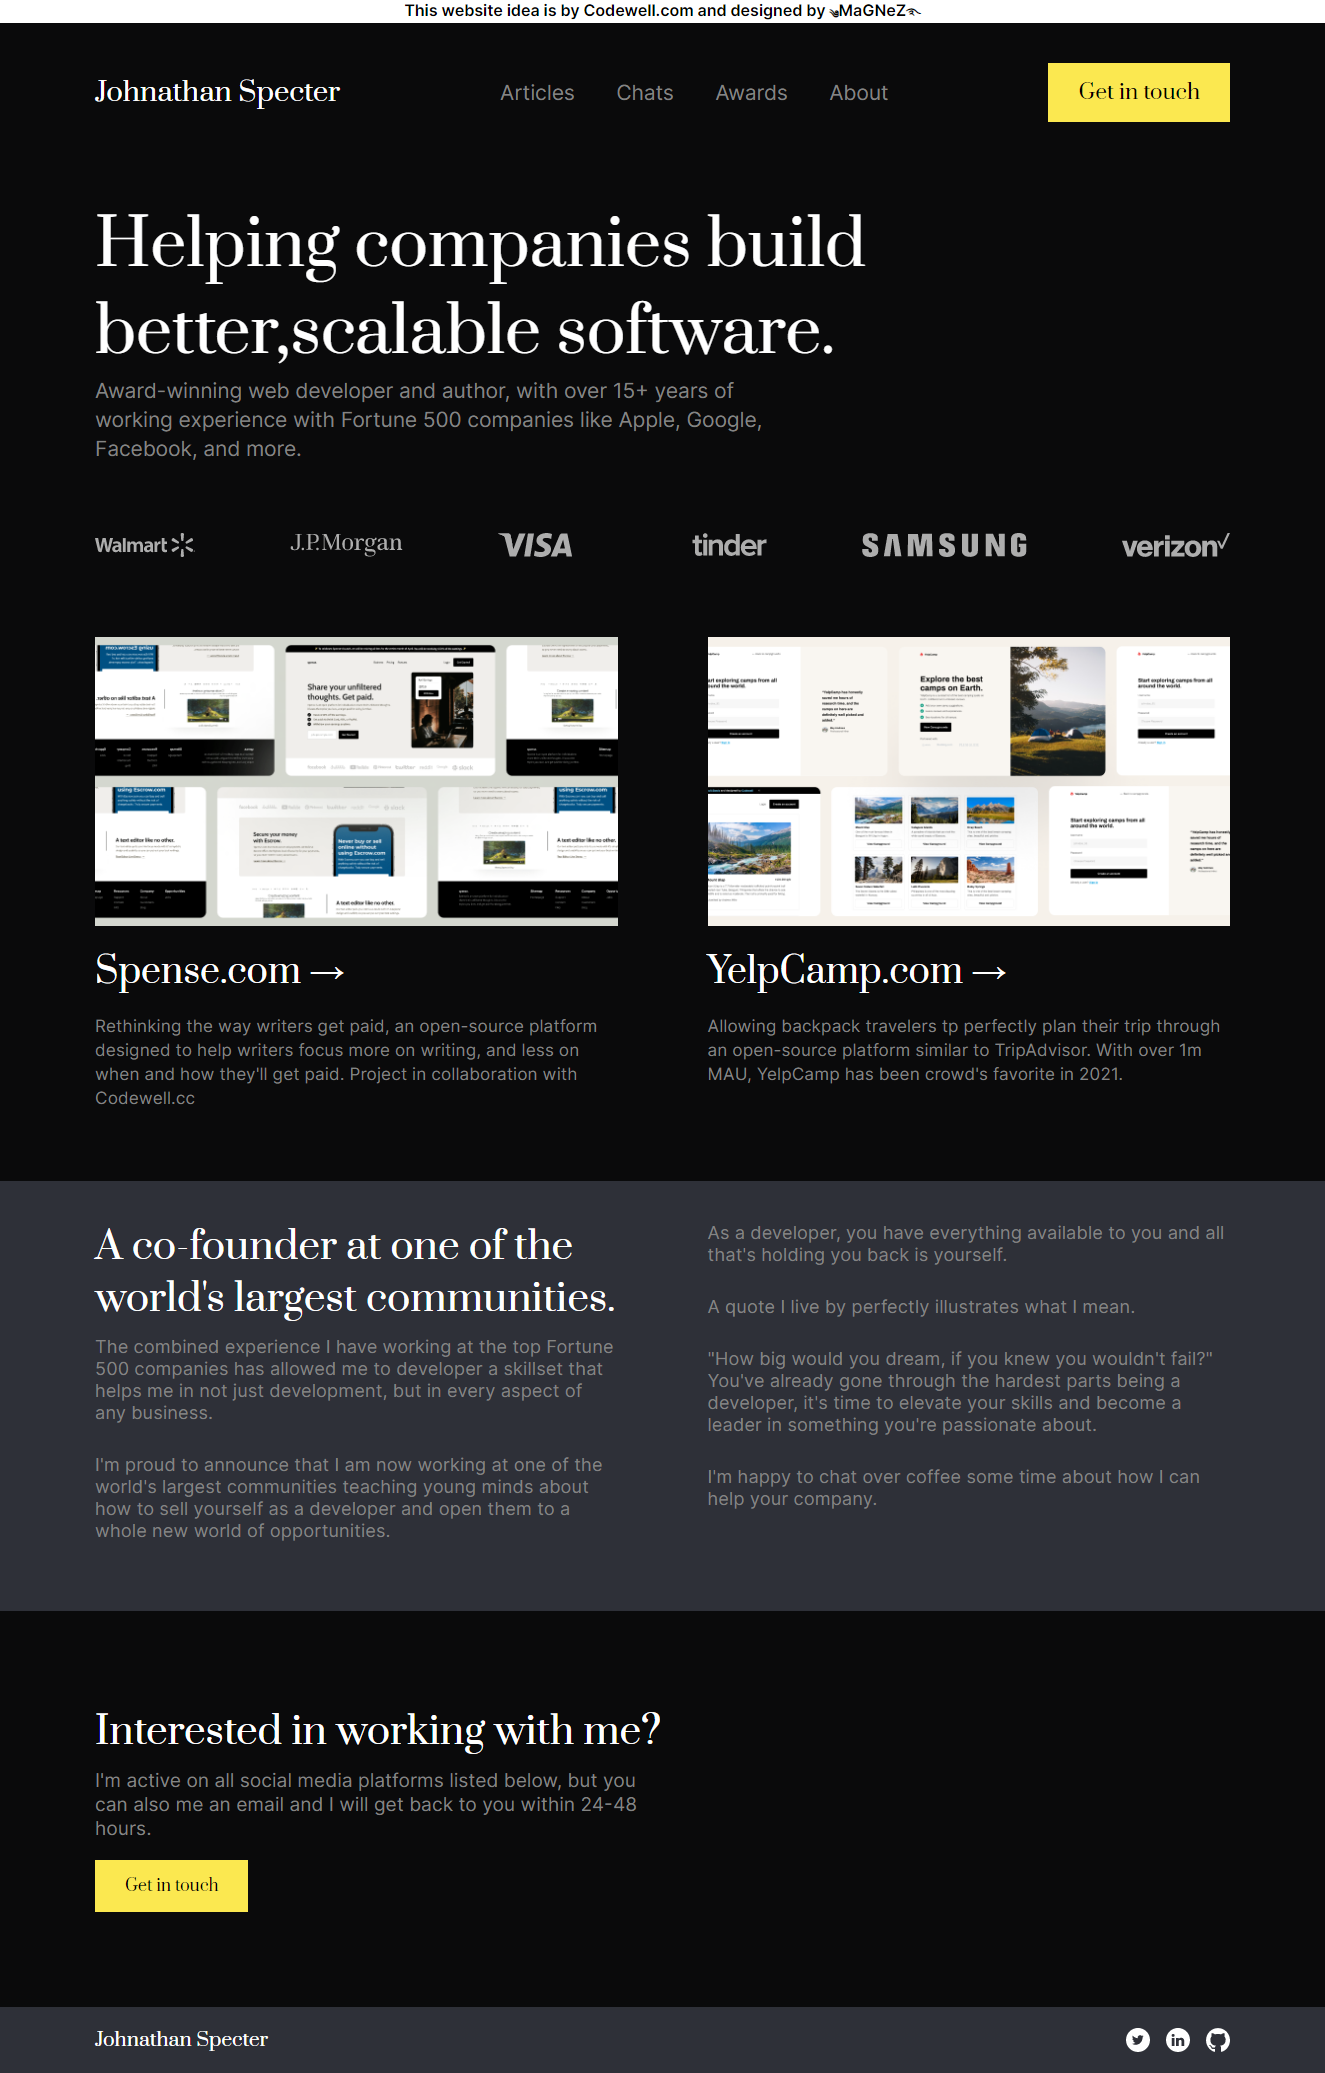
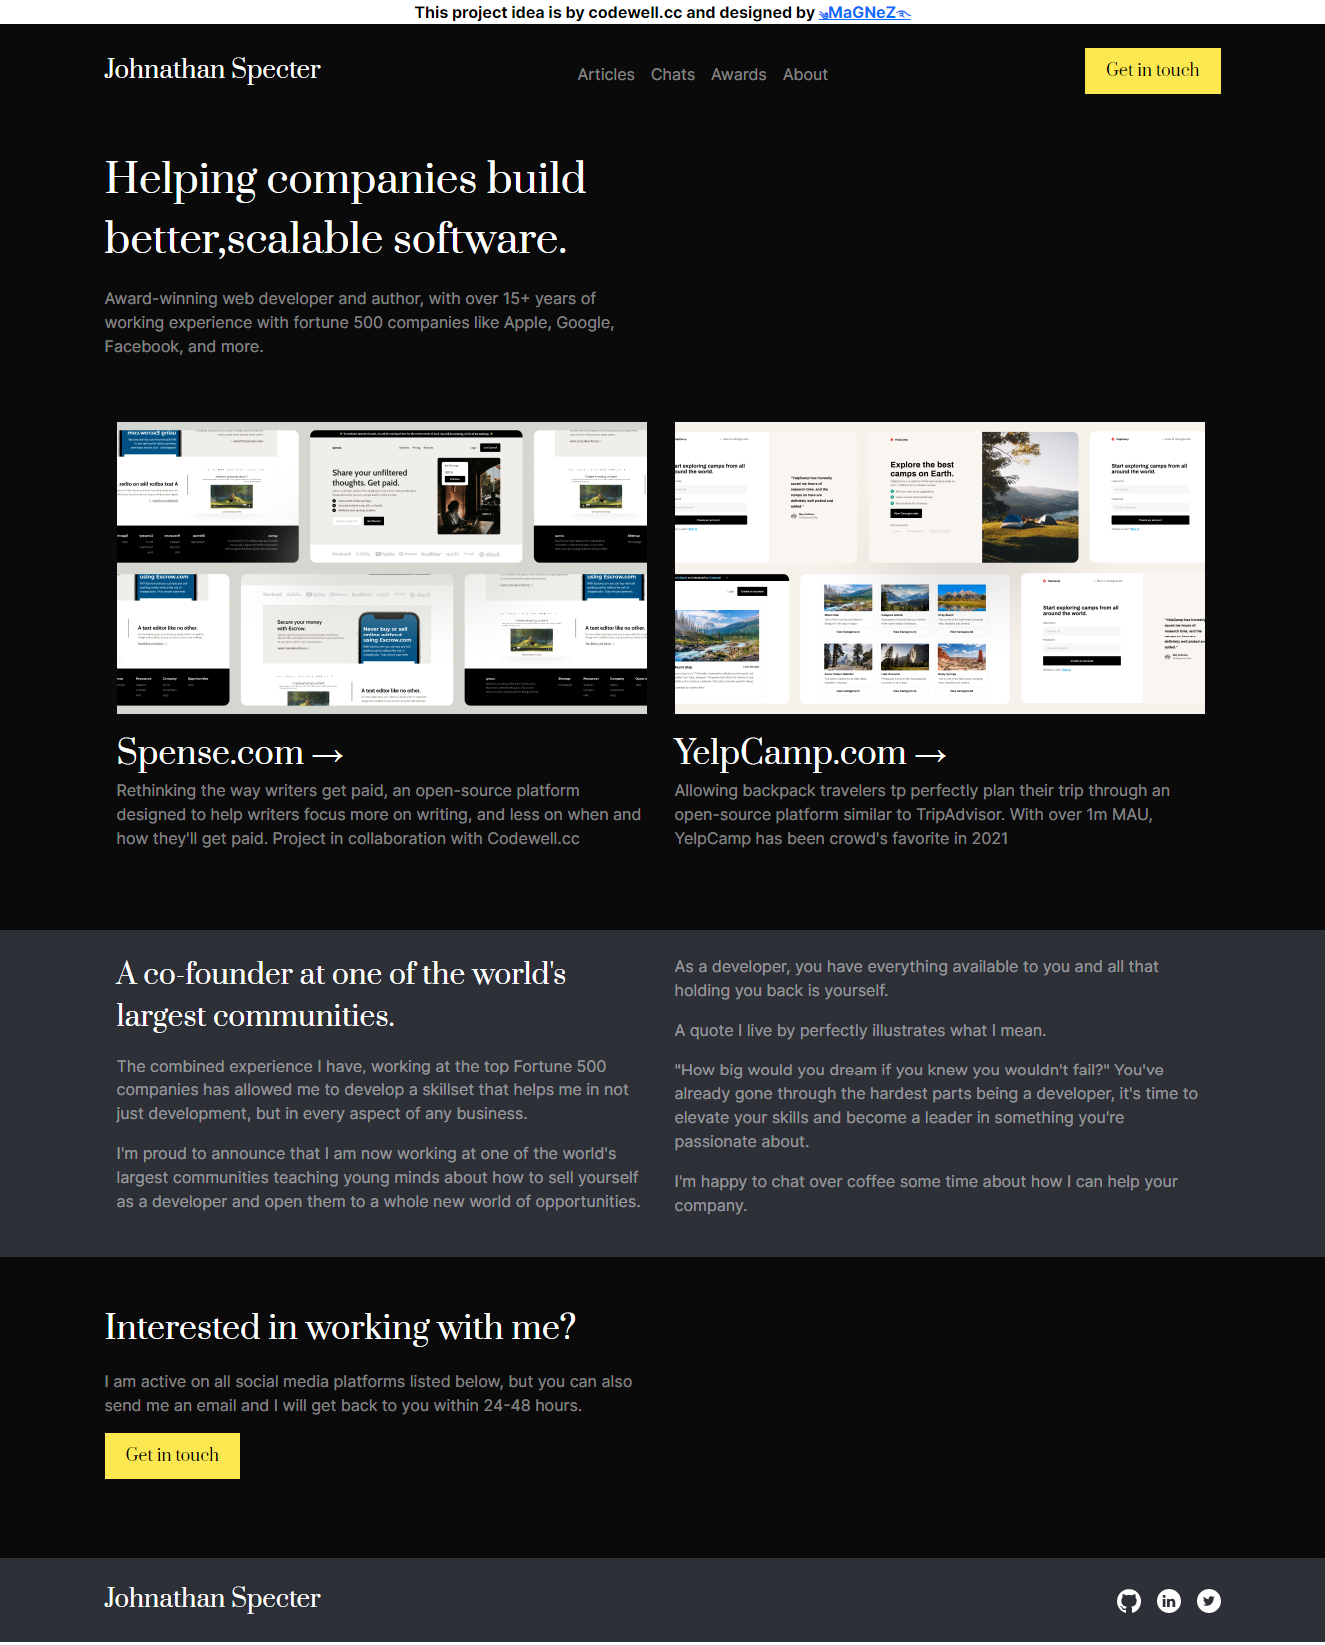
Finished project

Changed region(s): [[0.0, 0.248, 1.0, 1.0], [0.0619, 0.093, 0.6498, 0.217], [0.0, 0.0, 1.0, 0.062]]

diff --git a/index.html b/index.html
@@ -14,9 +14,134 @@
 </head>
 
 <body>
-    <header></header>
-    <main></main>
-    <footer></footer>
+    <div class="copyright text-black text-center fw-bold">This project idea is by codewell.cc and designed by <a
+            href="http://magnez.netlify.app" target="_blank">༄MaGNeZ࿐</a>
+    </div>
+    <header>
+        <nav class="navbar navbar-expand-lg">
+            <div class="container">
+                <a class="brand text-white fs-4" href="#">Johnathan Specter</a>
+                <button class="navbar-toggler" type="button" data-bs-toggle="collapse"
+                    data-bs-target="#navbarSupportedContent" aria-controls="navbarSupportedContent"
+                    aria-expanded="false" aria-label="Toggle navigation">
+                    <img src="assets/images/svg/menu.svg" alt="">
+                </button>
+                <div class="collapse navbar-collapse" id="navbarSupportedContent">
+                    <ul class="navbar-nav m-auto mb-lg-0">
+                        <li class="nav-item">
+                            <a class="nav-link text-white-50" href="#">Articles</a>
+                        </li>
+                        <li class="nav-item">
+                            <a class="nav-link text-white-50" href="#">Chats</a>
+                        </li>
+                        <li class="nav-item">
+                            <a class="nav-link text-white-50" href="#">Awards</a>
+                        </li>
+                        <li class="nav-item">
+                            <a class="nav-link text-white-50" href="#">About</a>
+                        </li>
+                    </ul>
+                    <form>
+                        <button class="btn" type="submit">Get in touch</button>
+                    </form>
+                </div>
+            </div>
+        </nav>
+    </header>
+    <main>
+        <section class="first-section mb-5">
+            <div class="container">
+                <div class="row">
+                    <div class="col-lg-6 col-md-8 col-sm-12">
+                        <p class="heading text-white fs-1">Helping companies build better,scalable software.</p>
+                        <p class="about-pg text-white-50">Award-winning web developer and author, with over 15+ years of
+                            working
+                            experience with fortune 500 companies like Apple, Google, Facebook, and more.</p>
+                    </div>
+                </div>
+            </div>
+        </section>
+        <!--====================-->
+        <section class="second-section mb-5">
+            <div class="container">
+                <div class="row m-auto">
+                    <div class="package col-lg-6 col-md-12 col-sm-12 mb-3 align-items-md-center">
+                        <img class="img-fluid mb-3" src="assets/images/png/Spense.png" alt="">
+                        <a class="title mb-3" href="#">Spense.com →</a>
+                        <p class="about-pg text-white-50">Rethinking the way writers get paid, an open-source platform
+                            designed to
+                            help writers focus more on writing, and less on when and how they'll get paid. Project in
+                            collaboration with Codewell.cc</p>
+                    </div>
+                    <div class="package col-lg-6 col-md-12 col-sm-12 mb-3">
+                        <img class="img-fluid mb-3" src="assets/images/png/YelpCamp.png" alt="">
+                        <a class="title mb-3" href="#">YelpCamp.com →</a>
+                        <p class="about-pg text-white-50">Allowing backpack travelers tp perfectly plan their trip
+                            through
+                            an
+                            open-source platform similar to TripAdvisor. With over 1m MAU, YelpCamp has been crowd's
+                            favorite in 2021</p>
+                    </div>
+                </div>
+            </div>
+        </section>
+        <!--====================-->
+        <section class="third-section mb-5">
+            <div class="container">
+                <div class="row m-auto">
+                    <div class="col-lg-6 col-md-12 col-sm-12">
+                        <p class="title fs-3 text-white">A co-founder at one of the world's
+                            largest
+                            communities.
+                        </p>
+                        <p class="text-white-50">The combined experience I have, working at the top Fortune 500
+                            companies has allowed me to develop a skillset that helps me in not just development, but in
+                            every aspect of any business.</p>
+                        <p class="text-white-50">I'm proud to announce that I am now working at one of the world's
+                            largest communities teaching young minds about how to sell yourself as a developer and open
+                            them to a whole new world of opportunities.</p>
+                    </div>
+                    <div class="col-lg-6 col-md-12 col-sm-12">
+                        <p class="text-white-50">As a developer, you have everything available to you and all that
+                            holding you back is yourself.</p>
+                        <p class="text-white-50">A quote I live by perfectly illustrates what I mean.</p>
+                        <p class="text-white-50">"How big would you dream if you knew you wouldn't fail?" You've already
+                            gone through the hardest parts being a developer, it's time to elevate your skills and
+                            become a leader in something you're passionate about.</p>
+                        <p class="text-white-50">I'm happy to chat over coffee some time about how I can help your
+                            company.</p>
+                    </div>
+                </div>
+            </div>
+        </section>
+        <!--====================-->
+        <section class="fourth-section mb-5">
+            <div class="container">
+                <div class="row">
+                    <div class="col-lg-6 col-md-12 col-sm-12">
+                        <p class="heading text-white fs-2">Interested in working with me?</p>
+                        <p class="about-pg text-white-50">I am active on all social media platforms listed below,
+                            but
+                            you can also send me an email and I will get back to you within 24-48 hours.</p>
+                        <form>
+                            <button class="btn" type="submit">Get in touch</button>
+                        </form>
+                    </div>
+                </div>
+            </div>
+        </section>
+    </main>
+    <footer>
+        <div class="container d-flex align-items-center justify-content-between">
+            <a class="brand text-white fs-4 href=" #">Johnathan Specter</a>
+            <div class="social-icons d-flex gap-3 ms-auto">
+                <a href="#" target="_blank"><img src="assets/images/svg/Github.svg" alt=""></a>
+                <a href="#" target="_blank"><img src="assets/images/svg/LinkedIn.svg" alt=""></a>
+                <a href="#" target="_blank"><img src="assets/images/svg/Twitter.svg" alt=""></a>
+            </div>
+        </div>
+    </footer>
+    <!--========== SCRIPTS ==========-->
     <script src="https://cdn.jsdelivr.net/npm/bootstrap@5.3.0-alpha1/dist/js/bootstrap.bundle.min.js"
         integrity="sha384-w76AqPfDkMBDXo30jS1Sgez6pr3x5MlQ1ZAGC+nuZB+EYdgRZgiwxhTBTkF7CXvN"
         crossorigin="anonymous"></script>

diff --git a/assets/styles/main.css b/assets/styles/main.css
@@ -12,58 +12,98 @@
     --yellow: #fbe850;
 }
 
-/* headings-font: font-family: 'Prata',serif; */
 body {
     font-family: 'Inter', sans-serif;
     background: var(--black);
 }
 
-body #copyright {
+.copyright {
     background-color: #fff;
-    text-align: center;
-    color: #000;
-    font-weight: 700;
 }
 
-/* ----------HEADER STYLING---------- */
-header .navbar-brand {
+.brand,
+.btn,
+main .first-section .heading,
+.third-section .title,
+.fourth-section .heading {
+
     font-family: 'Prata', serif;
 }
 
-header .navbar-nav {
-    gap: 2em;
+.brand {
+    text-decoration: none;
+    cursor: pointer;
 }
 
-header .btn {
-    all: unset;
-    color: #000;
-    padding: 15px 25px;
-    font-family: 'Prata', serif;
-    border: solid 1px transparent;
+/* ========== HEADER ========== */
+.navbar {
+    padding: 1.5em 0;
+}
+
+.navbar .nav-link {
+    transition: 500ms;
+    -webkit-transition: 500ms;
+    -moz-transition: 500ms;
+    -ms-transition: 500ms;
+    -o-transition: 500ms;
+}
+
+.navbar .nav-link:hover {
+    transform: scale(1.1);
+    -webkit-transform: scale(1.1);
+    -moz-transform: scale(1.1);
+    -ms-transform: scale(1.1);
+    -o-transform: scale(1.1);
+}
+
+.btn {
+    padding: 10px 20px;
     background-color: var(--yellow);
-    transition: 300ms;
-    -webkit-transition: 300ms;
-    -moz-transition: 300ms;
-    -ms-transition: 300ms;
-    -o-transition: 300ms;
+    color: #000;
+    border: solid 1px transparent;
+    border-radius: 0;
+    transition: 500ms;
+    -webkit-border-radius: 0;
+    -moz-border-radius: 0;
+    -ms-border-radius: 0;
+    -o-border-radius: 0;
+    -webkit-transition: 500ms;
+    -moz-transition: 500ms;
+    -ms-transition: 500ms;
+    -o-transition: 500ms;
 }
 
-header .btn:hover,
-header .btn.btn:focus {
+.btn:hover {
     border: solid 1px var(--yellow);
+    background-color: transparent;
     color: var(--yellow);
 }
 
-/* ----------MAIN STYLING---------- */
+/* ========== MAIN ========== */
 
-.first-section .heading {
+main {
+    padding: 2em 0;
+}
+
+/* ==================== */
+
+.second-section .package a:any-link {
+    text-decoration: none;
     font-family: 'Prata', serif;
-    font-size: 4em;
+    color: #fff;
+    font-size: 2em;
 }
 
-.first-section .description {
-    max-width: 60%;
-    font-size: 1.4em;
+/* ==================== */
+
+.third-section {
+    background-color: var(--gray);
+    padding: 1.5em 0;
 }
 
-/* ----------FOOTER STYLING---------- */
+/* ========== FOOTER ========== */
+
+footer {
+    padding: 1.5em 0;
+    background-color: var(--gray);
+}
